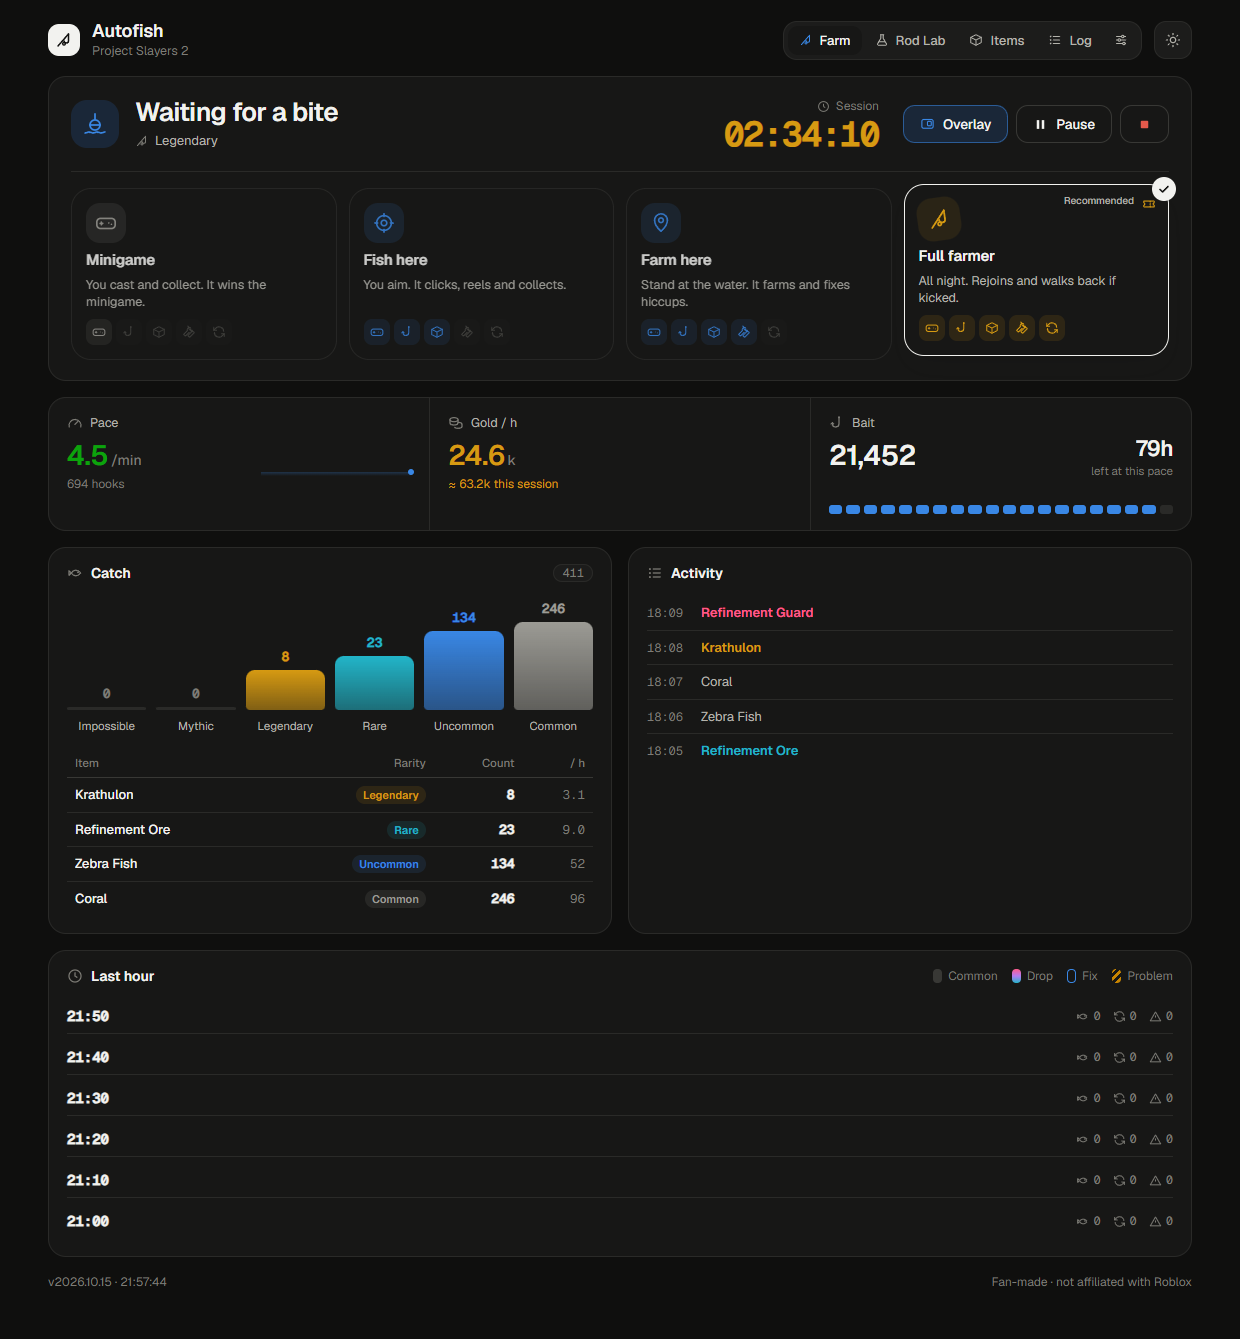
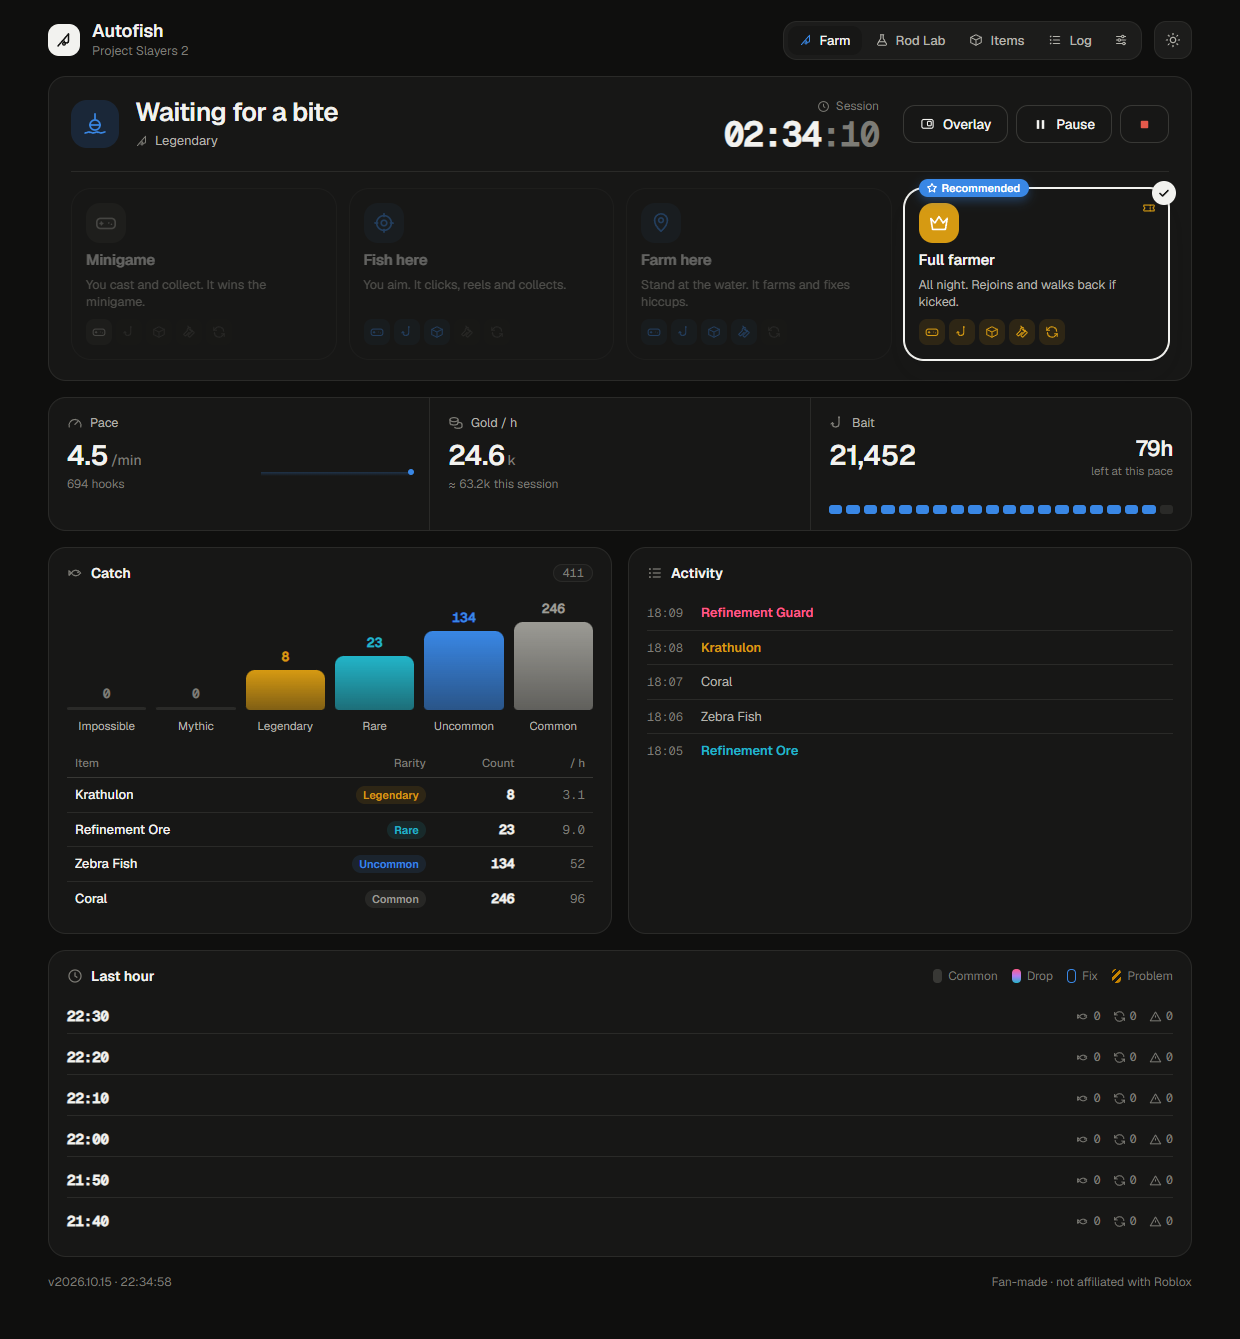
Restore original dashboard styling and blur the overlay backdrop

diff --git a/src/app_template.html b/src/app_template.html
@@ -118,7 +118,7 @@ button:focus-visible,input:focus-visible,select:focus-visible{outline:2px solid 
 .empty{color:var(--text-3);font-size:13px;padding:18px 0;text-align:center}
 
 /* activity */
-.feed{display:grid;gap:0;max-height:318px;overflow:auto;margin:0 -18px;padding:0 18px;scrollbar-width:none}
+.feed{display:grid;gap:0;max-height:318px;overflow:auto;margin:0 -18px;padding:0 18px;scrollbar-width:thin}
 .feed.tall{max-height:none}
 .ev{display:grid;grid-template-columns:52px 10px minmax(0,1fr);gap:10px;align-items:baseline;padding:7px 0;border-bottom:1px solid var(--border);font-size:13px}
 .ev:last-child{border-bottom:0}
@@ -166,10 +166,6 @@ tbody tr:hover td{background:color-mix(in srgb,var(--text-1) 2.5%,transparent)}
 .stepper button:hover{background:var(--border)}
 .stepper output{min-width:40px;text-align:center;font:500 14px var(--mono)}
 
-*{scrollbar-width:none}
-*::-webkit-scrollbar{display:none}
-#k-pace{color:var(--good)}
-#k-gold,#d-gold{color:var(--legendary)}
 /* views */
 .view{display:none;gap:16px}
 .view.on{display:grid;animation:in .35s var(--ease)}
@@ -322,11 +318,11 @@ footer a{color:inherit}
 .mc:active:not(:disabled){transform:scale(.96);transition-duration:.12s}
 .mc[aria-checked="true"]{border-color:var(--text-1);box-shadow:0 0 0 1px var(--text-1),0 14px 30px rgba(17,17,16,.12)}
 .mc:disabled{cursor:default}
-.deck.live .mc:not([aria-checked="true"]){opacity:.82}
+.deck.live .mc:not([aria-checked="true"]){opacity:.35}
 .mc .face{width:40px;height:40px;border-radius:12px;display:grid;place-items:center;background:color-mix(in srgb,var(--mc) 14%,transparent);color:var(--mc);transition:transform .5s var(--spring)}
 .mc .face .i{width:22px;height:22px}
 .mc:hover .face{transform:rotate(-8deg) scale(1.08)}
-.mc[aria-checked="true"] .face{background:color-mix(in srgb,var(--mc) 10%,transparent);color:var(--mc)}
+.mc[aria-checked="true"] .face{background:var(--mc);color:#fff}
 .mc b{font:600 15px/1.2 var(--sans);letter-spacing:-.01em}
 .mc p{margin:0;font-size:12.5px;color:var(--text-2);line-height:1.35}
 .mc .ab{display:flex;gap:4px;margin-top:auto}
@@ -371,7 +367,7 @@ footer a{color:inherit}
 /* ===== 3b ===== */
 .kpis{grid-template-columns:repeat(3,minmax(0,1fr))}
 .mc.rec:not([aria-checked="true"]){border:1.5px dashed color-mix(in srgb,var(--accent) 70%,transparent)}
-.mc .rec-tag{position:absolute;top:9px;right:34px;display:none;align-items:center;gap:3px;font:500 10px var(--sans);color:var(--text-2);background:none;padding:0}
+.mc .rec-tag{position:absolute;top:-10px;left:14px;display:none;align-items:center;gap:4px;font:600 11px var(--sans);color:#fff;background:var(--accent);border-radius:99px;padding:2px 9px 2px 7px;box-shadow:0 4px 10px color-mix(in srgb,var(--accent) 35%,transparent)}
 .mc .rec-tag .i{width:12px;height:12px;stroke-width:2.4}
 .mc.rec .rec-tag{display:inline-flex;animation:recin .6s var(--spring) backwards .2s}
 @keyframes recin{from{transform:translateY(6px) scale(.6);opacity:0}}
@@ -381,7 +377,7 @@ footer a{color:inherit}
 .mixbar span.hit{animation:hitfill .8s var(--spring)}
 .mixkey{display:flex;flex-wrap:wrap;gap:4px 16px;font-size:12.5px;color:var(--text-2);margin-bottom:12px}
 .mixkey b{font-weight:600;margin-right:4px}
-.ctbl{max-height:250px;overflow:auto;margin:0 -18px;padding:0 18px;scrollbar-width:none}
+.ctbl{max-height:250px;overflow:auto;margin:0 -18px;padding:0 18px;scrollbar-width:thin}
 .ctbl table td,.ctbl table th{padding:7px 8px}
 .ctbl td.n{font-weight:500}
 .ctbl tr.hit td{animation:rowhit 1s var(--ease)}
@@ -486,7 +482,7 @@ footer a{color:inherit}
 /* log: list on the left, the picked event in detail on the right */
 .logsplit{display:grid;grid-template-columns:minmax(0,1.45fr) minmax(0,1fr);gap:16px;align-items:start}
 @media (max-width:900px){.logsplit{grid-template-columns:minmax(0,1fr)}}
-.loglist{display:grid;max-height:calc(100vh - 230px);min-height:420px;overflow:auto;margin:0 -10px;padding:0 10px;scrollbar-width:none}
+.loglist{display:grid;max-height:calc(100vh - 230px);min-height:420px;overflow:auto;margin:0 -10px;padding:0 10px;scrollbar-width:thin}
 .lrow{display:grid;grid-template-columns:44px minmax(0,1fr) auto;gap:14px;align-items:center;padding:8px 10px;border:1px solid transparent;border-radius:12px;cursor:pointer;font-size:13.5px;text-align:left;background:none;color:var(--text-2);font-family:inherit;transition:background-color .15s,border-color .2s}
 .lrow time{font:400 12px var(--mono);color:var(--text-3)}
 .lrow span{white-space:nowrap;overflow:hidden;text-overflow:ellipsis}
@@ -628,19 +624,6 @@ footer a{color:inherit}
 .itbl .new{font:600 10px/1 var(--sans);color:var(--legendary);background:color-mix(in srgb,var(--legendary) 14%,transparent);border-radius:999px;padding:3px 7px;margin-left:8px;vertical-align:1px;letter-spacing:.03em}
 .itbl td.empty{text-align:center;height:120px;color:var(--text-3)}
 
-.timer b,.timer b i{color:var(--legendary)}
-@media (max-width:1000px){
-  .card.hero{grid-template-columns:minmax(0,1fr)}
-  .hero .ctl{justify-content:space-between;gap:14px}
-  .timer{justify-items:start}
-  .deck{grid-template-columns:repeat(2,minmax(0,1fr))}
-  .kpi .left{position:static;justify-items:start;margin-top:8px}
-}
-@media (max-width:620px){
-  .kpis{grid-template-columns:minmax(0,1fr)}
-  .kpi .left{position:absolute;right:18px;top:38px;margin:0;justify-items:end}
-  .mc{min-height:174px}
-}
 @media (prefers-reduced-motion: reduce){*{animation:none!important;transition:none!important}}
 </style>
 </head>
@@ -849,7 +832,7 @@ const MODES = [
   {k:'assist', name:'Minigame', icon:'pad', c:'var(--common)', line:'You cast and collect. It wins the minigame.', does:['reel']},
   {k:'spot', name:'Fish here', icon:'target', c:'var(--uncommon)', line:'You aim. It clicks, reels and collects.', does:['reel','cast','collect']},
   {k:'here', name:'Farm here', icon:'pin', c:'var(--accent)', line:'Stand at the water. It farms and fixes hiccups.', does:['reel','cast','collect','fix']},
-  {k:'full', name:'Full farmer', icon:'rod', c:'var(--legendary)', line:'All night. Rejoins and walks back if kicked.', does:['reel','cast','collect','fix','rejoin'], pass:true}];
+  {k:'full', name:'Full farmer', icon:'crown', c:'var(--legendary)', line:'All night. Rejoins and walks back if kicked.', does:['reel','cast','collect','fix','rejoin'], pass:true}];
 const ABIL = [['reel','pad','Wins the minigame'],['cast','hook','Casts'],['collect','box','Collects drops'],['fix','wrench','Fixes small problems'],['rejoin','refresh','Rejoins after a disconnect']];
 const RVAR = {Common:'var(--common)', Uncommon:'var(--uncommon)', Rare:'var(--rare)', Legendary:'var(--legendary)', Mythic:'var(--mythic)', Impossible:'var(--impossible)'};
 const RORDER = ['Impossible','Mythic','Legendary','Rare','Uncommon','Common'];
@@ -924,7 +907,7 @@ function cardHtml(m, live, s){
   const locked = m.pass && s.config && s.config.spawn_gamepass === false;
   const rec = s.config && s.config.spawn_gamepass != null && m.k === (s.config.spawn_gamepass ? 'full' : 'here');
   return `<button class="mc${locked ? ' locked' : ''}${rec ? ' rec' : ''}" role="radio" data-m="${m.k}" aria-checked="${m.k === pickMode}" style="--mc:${m.c}" title="${esc(m.line)}">
-    ${m.pass ? `<span class="tag" title="Needs the Set Spawn Anywhere gamepass">${ico(locked ? 'lock' : 'ticket')}</span>` : ''}<span class="tick">${ico('check')}</span><span class="rec-tag">Recommended</span>
+    ${m.pass ? `<span class="tag" title="Needs the Set Spawn Anywhere gamepass">${ico(locked ? 'lock' : 'ticket')}</span>` : ''}<span class="tick">${ico('check')}</span><span class="rec-tag">${ico('star')}Recommended</span>
     <span class="face">${ico(m.icon)}</span><b>${m.name}</b><p>${m.line}</p>
     <span class="ab">${ABIL.map(([k, i, tip]) => `<span class="${m.does.includes(k) ? 'on' : ''}" title="${tip}">${ico(i)}</span>`).join('')}</span></button>`;
 }

diff --git a/src/overlay.py b/src/overlay.py
@@ -1,7 +1,8 @@
-"""Native, per-pixel translucent overlay. It never activates or handles game input.
+"""Native, per-pixel translucent overlay with compositor backdrop blur. It never activates or handles game input.
 
 Only a matching foreground Roblox window makes it visible. Pillow draws opaque
 text on a translucent surface; UpdateLayeredWindow preserves both alpha levels.
+The Windows compositor blurs the live backdrop without screen capture.
 No browser window is restyled and no focus-restoration call is needed.
 """
 import json
@@ -193,6 +194,34 @@ def paint(hwnd, surface, position):
         win32gui.ReleaseDC(0, screen)
 
 
+def enable_blur(hwnd):
+    """Blur the live backdrop while keeping the layered text fully opaque.
+
+    DWMWA_SYSTEMBACKDROP_TYPE produces an opaque inactive surface on this
+    no-activate layered window. WCA_ACCENT_POLICY applies blur to its backdrop
+    without changing activation, input handling, or the uploaded alpha surface.
+    """
+    import ctypes
+    from ctypes import wintypes
+    class AccentPolicy(ctypes.Structure):
+        _fields_ = [('state', wintypes.DWORD), ('flags', wintypes.DWORD),
+                    ('color', wintypes.DWORD), ('animation', wintypes.DWORD)]
+    class CompositionData(ctypes.Structure):
+        _fields_ = [('attribute', wintypes.DWORD), ('data', ctypes.c_void_p),
+                    ('size', ctypes.c_size_t)]
+    policy = AccentPolicy(3, 0, 0, 0)  # ACCENT_ENABLE_BLURBEHIND; tint comes from Pillow.
+    data = CompositionData(19, ctypes.addressof(policy), ctypes.sizeof(policy))
+    try:
+        apply = ctypes.windll.user32.SetWindowCompositionAttribute
+    except AttributeError as error:
+        raise OSError('Windows backdrop blur is unavailable') from error
+    apply.argtypes = [wintypes.HWND, ctypes.POINTER(CompositionData)]
+    apply.restype = wintypes.BOOL
+    if not apply(hwnd, ctypes.byref(data)):
+        raise OSError('Windows could not enable overlay backdrop blur')
+
+
+
 class Overlay:
     def __init__(self, browser_path=None):
         self.thread = None
@@ -249,6 +278,7 @@ class Overlay:
                 with urllib.request.urlopen(req, timeout=1) as response: return json.load(response)
             # Paint once while hidden, catching native setup errors before reporting On.
             paint(self.hwnd, render({'state': 'Loading'}), (0, 0))
+            enable_blur(self.hwnd)
             self._ready.set()
             state, gear, next_poll, next_gear, last = {}, {}, 0., 0., None
             while not self._stop.is_set():

diff --git a/tests/test_overlay_runtime.py b/tests/test_overlay_runtime.py
@@ -52,6 +52,18 @@ class OverlayRender(unittest.TestCase):
         self.assertFalse(item.running)
         self.assertFalse(win32gui.IsWindow(hwnd))
 
+    @unittest.skipUnless(os.name=='nt','Native Windows window')
+    def test_failed_blur_setup_closes_the_hidden_window(self):
+        item=overlay.Overlay()
+        with patch.object(overlay,'roblox_window',return_value=None), \
+             patch.object(overlay,'enable_blur',side_effect=OSError('Backdrop unavailable')):
+            try:
+                with self.assertRaisesRegex(RuntimeError,'Backdrop unavailable'):
+                    item.start('http://127.0.0.1:12345/overlay?t=fixture')
+            finally:item.stop()
+        self.assertFalse(item.running)
+        self.assertIsNone(item.hwnd)
+
 
 class ActivityClock(unittest.TestCase):
     def test_clock_needs_fresh_fishing_and_actual_roblox_focus(self):

diff --git a/README.md b/README.md
@@ -38,13 +38,13 @@ You don't need to know anything about coding. Download, double-click, done.
 
 Autofish.exe opens one window with everything in it: what the farmer is doing right now, Start / Pause / Stop, a session timer, pace and gold per hour graphs, bait left, your catch by rarity, a live log and a timeline of the last hour. Items shows everything you've collected as a map or a searchable list. It works in light and dark mode and runs offline on your PC.
 
-The **Overlay** button toggles a small translucent card over Roblox with your status, pace, gold, rod and latest catches. Pace is green; Gold / h and Session are gold. The background is transparent while text stays solid. It appears only while Roblox is in front, lets clicks pass through, and never takes keyboard focus.
+The **Overlay** button toggles a small translucent card over Roblox with your status, pace, gold, rod and latest catches. Pace is green; Gold / h and Session are gold. The live background is blurred through the translucent card while text stays solid. It appears only while Roblox is in front, lets clicks pass through, and never takes keyboard focus.
 
-<p align="center"><img src="docs/images/overlay.png" alt="Translucent Autofish overlay with green Pace and gold Gold per hour and Session values" width="284"></p>
+<p align="center"><img src="docs/images/overlay.png" alt="Native Autofish overlay blurring a synthetic background while retaining sharp text" width="660"></p>
 
-*Dashboard and overlay previews use demonstration data. The overlay image is rendered by the actual native renderer.*
+*Dashboard and overlay previews use demonstration data. The overlay image is captured from the native Windows compositor over a synthetic background.*
 
-The session clock advances only with fresh fishing telemetry while Roblox is focused. It freezes during manual pause, focus loss, recovery or a stale connection. Mode cards stay selectable while running: choose a mode, then **Switch to** to pause the old controller and continue the saved run. A new Stop or Pause cancels the switch. Pages still scroll with the mouse wheel and keyboard, without visible scrollbars.
+The session clock advances only with fresh fishing telemetry while Roblox is focused. It freezes during manual pause, focus loss, recovery or a stale connection. Mode cards stay selectable while running: choose a mode, then **Switch to** to pause the old controller and continue the saved run. A new Stop or Pause cancels the switch. The dashboard retains its original styling and colors.
 
 ## Rod Lab
 

diff --git a/AGENTS.md b/AGENTS.md
@@ -91,3 +91,9 @@ lock. Keep file offsets across polls and reset them on a new run. Do not constru
 fresh history readers per request or overlap browser polling: long histories can
 otherwise stall overlay and control responses. Status and foreground ownership
 must still be read fresh on each request; never cache the active-fishing gate.
+
+The dashboard visual styling is restored to the Claude release (14da711). Keep
+its white session clock and muted seconds. Overlay-only colors must not leak into
+the dashboard. Backdrop blur uses native composition on the existing layered
+window; never capture game frames for it. The Pillow content retains its rounded
+translucent surface and opaque text.
